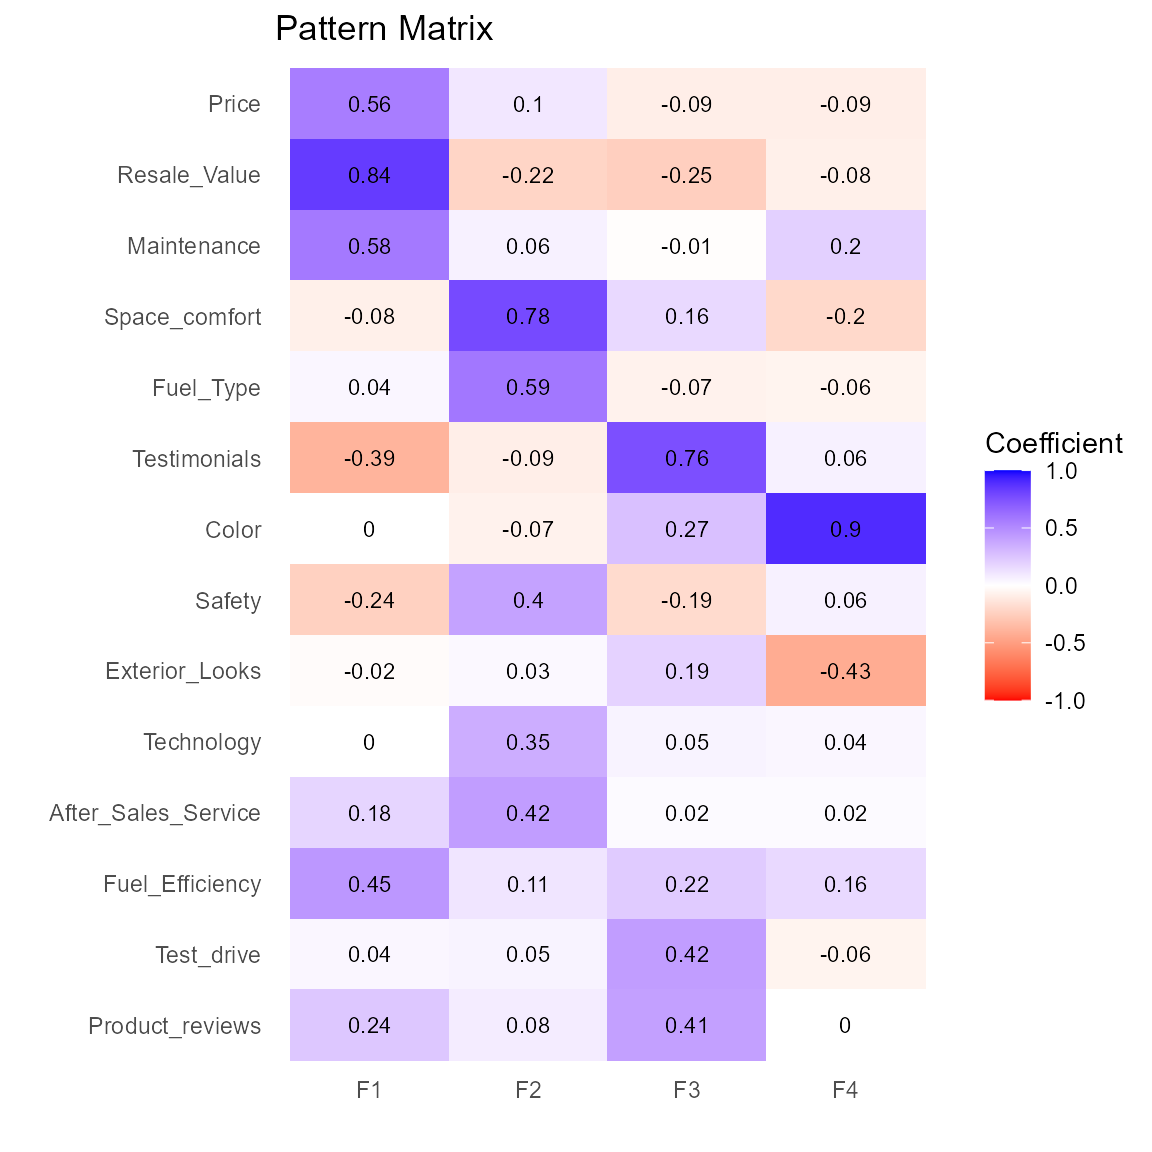
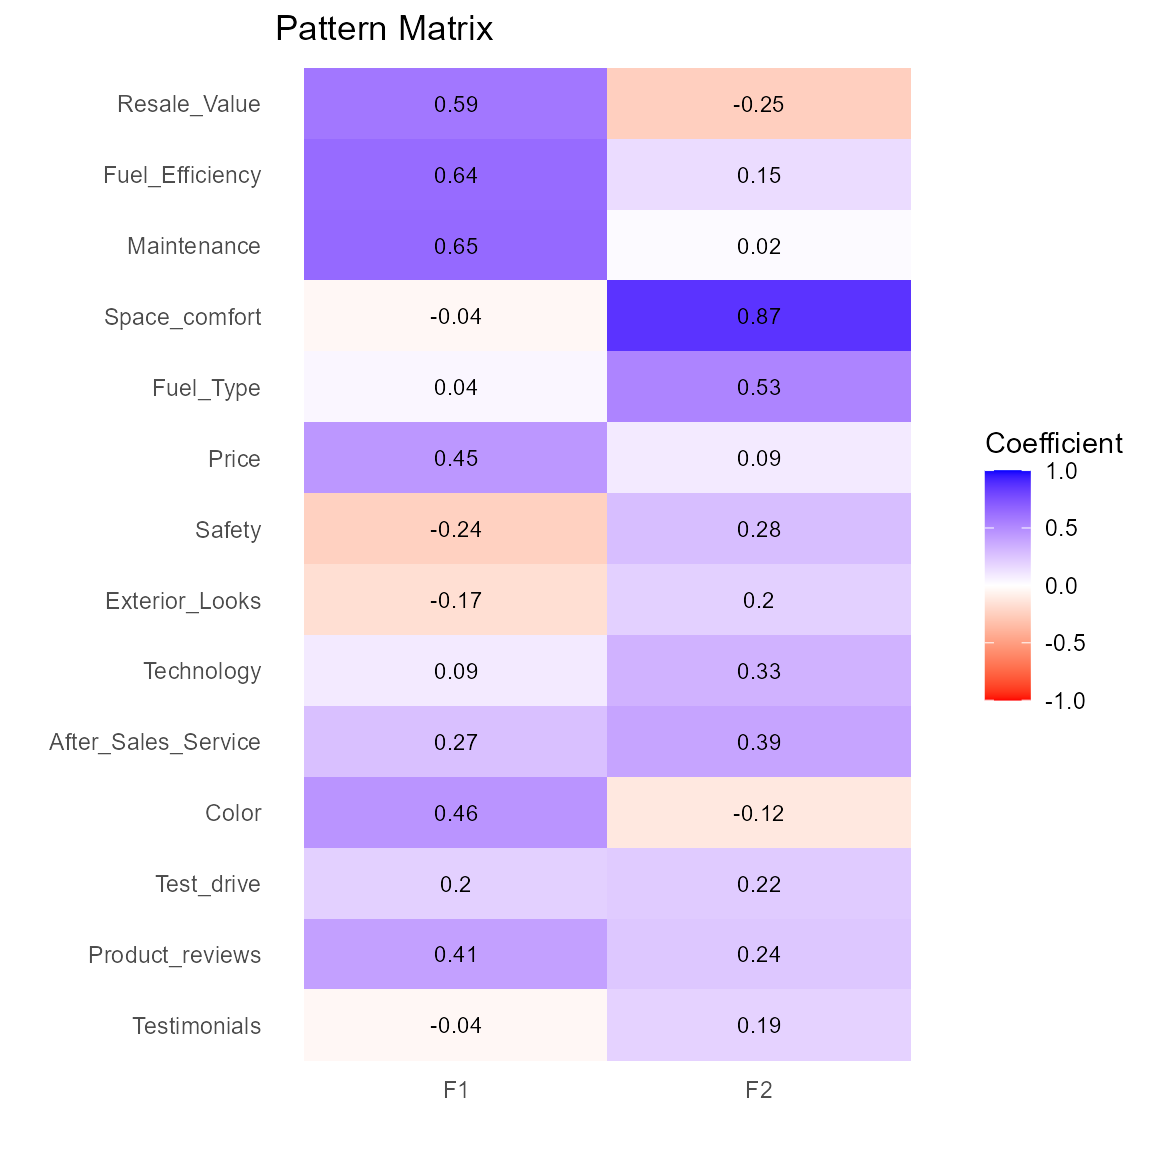
update homepage

diff --git a/docs/articles/factorAnalysis.html b/docs/articles/factorAnalysis.html
@@ -125,7 +125,7 @@
 
     
     
-<p>Based on the William Revelle’s comprehensive <a href="https://cran.r-project.org/web/packages/psych/index.html">psych</a> package, the <code>qacr</code> package provides wrapper functions for simplified input, intuitive output, and easily interpretable graphs, making these techniques more accessible to data analysts new to these forms of analysis.</p>
+<p>Based on the William Revelle’s comprehensive <a href="https://cran.r-project.org/web/packages/psych/index.html">psych</a> package, <code>qacr</code> provides wrapper functions for simplified input, intuitive output, and easily interpretable graphs, making these techniques more accessible to data analysts new to these forms of analysis.</p>
 <div id="principal-components-analysis" class="section level2">
 <h2 class="hasAnchor">
 <a href="#principal-components-analysis" class="anchor"></a>Principal Components Analysis</h2>
@@ -242,62 +242,60 @@
 <span class="co">#&gt; </span>
 <span class="co">#&gt; Note: parallel analysis suggests 4 factors.</span></code></pre></div>
 <p><img src="factorAnalysis_files/figure-html/unnamed-chunk-6-1.png" width="576"></p>
-<p>The scree plot suggests two factors. In the next step, we’ll extract four factors and rotate them using a <em>promax</em> rotation.</p>
+<p>The parallel analysis suggests a maximum 4 factors, while the bend in the scree plot strongly suggests two factors. In the next step, we’ll extract 2 factors and rotate them using a <em>promax</em> rotation.</p>
 <div class="sourceCode" id="cb8"><pre class="downlit sourceCode r">
-<code class="sourceCode R"><span class="co"># extract 4 factors</span>
-<span class="va">fit.fa</span> <span class="op">&lt;-</span> <span class="fu"><a href="../reference/FA.html">FA</a></span><span class="op">(</span><span class="va">ratings</span>, nfactor<span class="op">=</span><span class="fl">4</span>, rotate<span class="op">=</span><span class="st">"promax"</span>, fm<span class="op">=</span><span class="st">"ml"</span><span class="op">)</span>
+<code class="sourceCode R"><span class="co"># extract 2 oblique factors</span>
+<span class="va">fit.fa</span> <span class="op">&lt;-</span> <span class="fu"><a href="../reference/FA.html">FA</a></span><span class="op">(</span><span class="va">ratings</span>, nfactor<span class="op">=</span><span class="fl">2</span>, rotate<span class="op">=</span><span class="st">"promax"</span>, fm<span class="op">=</span><span class="st">"ml"</span><span class="op">)</span>
 <span class="co">#&gt; </span>
 <span class="co">#&gt; Maximum Likelihood Factor Analysis</span>
-<span class="co">#&gt; Number of Factors: 4 / Rotation: promax </span>
+<span class="co">#&gt; Number of Factors: 2 / Rotation: promax </span>
 <span class="co">#&gt; </span>
 <span class="co">#&gt; Factor Pattern</span>
-<span class="co">#&gt;                        F1    F2    F3    F4   h2</span>
-<span class="co">#&gt; Price                0.56  0.10 -0.09 -0.09 0.29</span>
-<span class="co">#&gt; Safety              -0.24  0.40 -0.19  0.06 0.21</span>
-<span class="co">#&gt; Exterior_Looks      -0.02  0.03  0.19 -0.43 0.21</span>
-<span class="co">#&gt; Space_comfort       -0.08  0.78  0.16 -0.20 0.71</span>
-<span class="co">#&gt; Technology           0.00  0.35  0.05  0.04 0.13</span>
-<span class="co">#&gt; After_Sales_Service  0.18  0.42  0.02  0.02 0.25</span>
-<span class="co">#&gt; Resale_Value         0.84 -0.22 -0.25 -0.08 0.61</span>
-<span class="co">#&gt; Fuel_Type            0.04  0.59 -0.07 -0.06 0.34</span>
-<span class="co">#&gt; Fuel_Efficiency      0.45  0.11  0.22  0.16 0.42</span>
-<span class="co">#&gt; Color                0.00 -0.07  0.27  0.90 0.90</span>
-<span class="co">#&gt; Maintenance          0.58  0.06 -0.01  0.20 0.45</span>
-<span class="co">#&gt; Test_drive           0.04  0.05  0.42 -0.06 0.21</span>
-<span class="co">#&gt; Product_reviews      0.24  0.08  0.41  0.00 0.33</span>
-<span class="co">#&gt; Testimonials        -0.39 -0.09  0.76  0.06 0.49</span>
+<span class="co">#&gt;                        F1    F2   h2</span>
+<span class="co">#&gt; Price                0.45  0.09 0.21</span>
+<span class="co">#&gt; Safety              -0.24  0.28 0.13</span>
+<span class="co">#&gt; Exterior_Looks      -0.17  0.20 0.06</span>
+<span class="co">#&gt; Space_comfort       -0.04  0.87 0.76</span>
+<span class="co">#&gt; Technology           0.09  0.33 0.12</span>
+<span class="co">#&gt; After_Sales_Service  0.27  0.39 0.24</span>
+<span class="co">#&gt; Resale_Value         0.59 -0.25 0.39</span>
+<span class="co">#&gt; Fuel_Type            0.04  0.53 0.29</span>
+<span class="co">#&gt; Fuel_Efficiency      0.64  0.15 0.44</span>
+<span class="co">#&gt; Color                0.46 -0.12 0.22</span>
+<span class="co">#&gt; Maintenance          0.65  0.02 0.42</span>
+<span class="co">#&gt; Test_drive           0.20  0.22 0.10</span>
+<span class="co">#&gt; Product_reviews      0.41  0.24 0.24</span>
+<span class="co">#&gt; Testimonials        -0.04  0.19 0.04</span>
 <span class="co">#&gt; </span>
 <span class="co">#&gt; Factor Structure</span>
-<span class="co">#&gt;                        F1    F2    F3    F4</span>
-<span class="co">#&gt; Price                0.52  0.16  0.14  0.06</span>
-<span class="co">#&gt; Safety              -0.23  0.31 -0.17  0.00</span>
-<span class="co">#&gt; Exterior_Looks      -0.05  0.06  0.17 -0.42</span>
-<span class="co">#&gt; Space_comfort        0.05  0.80  0.33 -0.19</span>
-<span class="co">#&gt; Technology           0.09  0.36  0.15  0.05</span>
-<span class="co">#&gt; After_Sales_Service  0.27  0.46  0.21  0.08</span>
-<span class="co">#&gt; Resale_Value         0.70 -0.15  0.00  0.13</span>
-<span class="co">#&gt; Fuel_Type            0.09  0.57  0.10 -0.03</span>
-<span class="co">#&gt; Fuel_Efficiency      0.58  0.24  0.42  0.28</span>
-<span class="co">#&gt; Color                0.32  0.03  0.30  0.91</span>
-<span class="co">#&gt; Maintenance          0.64  0.15  0.22  0.35</span>
-<span class="co">#&gt; Test_drive           0.19  0.17  0.45 -0.03</span>
-<span class="co">#&gt; Product_reviews      0.40  0.23  0.52  0.08</span>
-<span class="co">#&gt; Testimonials        -0.11  0.06  0.60 -0.01</span>
+<span class="co">#&gt;                        F1    F2</span>
+<span class="co">#&gt; Price                0.45  0.12</span>
+<span class="co">#&gt; Safety              -0.22  0.26</span>
+<span class="co">#&gt; Exterior_Looks      -0.16  0.18</span>
+<span class="co">#&gt; Space_comfort        0.02  0.87</span>
+<span class="co">#&gt; Technology           0.11  0.33</span>
+<span class="co">#&gt; After_Sales_Service  0.30  0.41</span>
+<span class="co">#&gt; Resale_Value         0.57 -0.22</span>
+<span class="co">#&gt; Fuel_Type            0.07  0.53</span>
+<span class="co">#&gt; Fuel_Efficiency      0.65  0.19</span>
+<span class="co">#&gt; Color                0.45 -0.09</span>
+<span class="co">#&gt; Maintenance          0.65  0.06</span>
+<span class="co">#&gt; Test_drive           0.22  0.24</span>
+<span class="co">#&gt; Product_reviews      0.43  0.27</span>
+<span class="co">#&gt; Testimonials        -0.03  0.19</span>
 <span class="co">#&gt; </span>
-<span class="co">#&gt;                         F1   F2   F3   F4</span>
-<span class="co">#&gt; SS loadings           1.76 1.51 1.13 1.14</span>
-<span class="co">#&gt; Proportion Var        0.13 0.11 0.08 0.08</span>
-<span class="co">#&gt; Cumulative Var        0.13 0.23 0.32 0.40</span>
-<span class="co">#&gt; Proportion Explained  0.32 0.27 0.20 0.21</span>
-<span class="co">#&gt; Cumulative Proportion 0.32 0.59 0.79 1.00</span>
+<span class="co">#&gt;                         F1   F2</span>
+<span class="co">#&gt; SS loadings           1.98 1.68</span>
+<span class="co">#&gt; Proportion Var        0.14 0.12</span>
+<span class="co">#&gt; Cumulative Var        0.14 0.26</span>
+<span class="co">#&gt; Proportion Explained  0.54 0.46</span>
+<span class="co">#&gt; Cumulative Proportion 0.54 1.00</span>
 <span class="co">#&gt; </span>
 <span class="co">#&gt; Factor Intercorrelations</span>
-<span class="co">#&gt;      F1   F2   F3   F4</span>
-<span class="co">#&gt; F1 1.00 0.16 0.37 0.26</span>
-<span class="co">#&gt; F2 0.16 1.00 0.27 0.03</span>
-<span class="co">#&gt; F3 0.37 0.27 1.00 0.04</span>
-<span class="co">#&gt; F4 0.26 0.03 0.04 1.00</span></code></pre></div>
-<p>The printout includes the factor pattern, the factor structure, and the factor intercorrelations. The four factors account for 40% of the variance in the original data. Factors 1 and 3 have the hightest correlation (0.37).</p>
+<span class="co">#&gt;      F1   F2</span>
+<span class="co">#&gt; F1 1.00 0.07</span>
+<span class="co">#&gt; F2 0.07 1.00</span></code></pre></div>
+<p>The printout includes the factor pattern, the factor structure, and the factor intercorrelations. The four factors account for 26% of the variance in the original data. Factors 1 and 2 have a low correlation (0.07), suggesting that an orthogonal (e.g., varimax) rotation may give a simpler solution.</p>
 <p>Next, we’ll plot the pattern matrix as both a table and a bar chart.</p>
 <div class="sourceCode" id="cb9"><pre class="downlit sourceCode r">
 <code class="sourceCode R"><span class="co"># plot factor pattern as table</span>
@@ -327,13 +325,13 @@
 <span class="co">#&gt; 4            5         5               4     4           4          2</span>
 <span class="co">#&gt; 5            5         3               4     5           5          5</span>
 <span class="co">#&gt; 6            3         4               3     2           3          2</span>
-<span class="co">#&gt;   Product_reviews Testimonials         F1         F2         F3         F4</span>
-<span class="co">#&gt; 1               4            3  0.2506910 -0.4699041 -0.7872106 -1.6945115</span>
-<span class="co">#&gt; 2               2            2 -1.5335845 -0.9639319 -2.4591528  0.8789180</span>
-<span class="co">#&gt; 3               4            3  1.1462512  0.2886700 -0.1155376  0.4665338</span>
-<span class="co">#&gt; 4               5            3  0.5241452 -0.8581296 -0.6791612  0.4143127</span>
-<span class="co">#&gt; 5               5            2  1.3108167  0.1322874 -0.1696281  1.3488528</span>
-<span class="co">#&gt; 6               2            3 -1.2159854 -1.1217324 -1.7582189 -1.4766228</span></code></pre></div>
+<span class="co">#&gt;   Product_reviews Testimonials         F1          F2</span>
+<span class="co">#&gt; 1               4            3 -0.2191629 -0.27112360</span>
+<span class="co">#&gt; 2               2            2 -1.4450747 -1.44074857</span>
+<span class="co">#&gt; 3               4            3  1.2040675  0.03516678</span>
+<span class="co">#&gt; 4               5            3  0.3792889 -1.12791694</span>
+<span class="co">#&gt; 5               5            2  1.1548109 -0.18276132</span>
+<span class="co">#&gt; 6               2            3 -1.4025048 -1.14472586</span></code></pre></div>
 </div>
   </div>
 

diff --git a/docs/index.html b/docs/index.html
@@ -122,51 +122,24 @@
 <a href="#qacr" class="anchor"></a>qacr</h1></div>
 <!-- badges: start -->
 <!-- badges: end -->
-<p>The goal of <strong>qacr</strong> is to provide convenient statistical results for data science students and practitioners.</p>
-<p>Why <strong>qacr</strong>? This package is created and maintained by advanced undergradutes in the <a href="http://qac.wesleyan.edu">Quantitative Analysis Center</a> (QAC) at Wesleyan University. It just seemed appropriate.</p>
-<div id="installation" class="section level2">
-<h2 class="hasAnchor">
-<a href="#installation" class="anchor"></a>Installation</h2>
+<p><strong>R</strong> is a wonderful language and platform for data science. Unfortunately, many simple tasks in data preparation, data exploration, machine learning, and data visualization can be more difficult than necessary.</p>
+<p>The goal of the <strong>qacr</strong> package is to provide <strong>convenient statistical functions</strong> for the common data science task we perform every day. Additionally, there are over <strong>two dozen data sets</strong> that can be used for teaching and self-study.</p>
+<p>Why <strong>qacr</strong>? This package is created and maintained by faculty and advanced undergradutes in the <a href="http://qac.wesleyan.edu">Quantitative Analysis Center</a> (QAC) at Wesleyan University. It just seemed appropriate.</p>
+<div id="installation" class="section level3">
+<h3 class="hasAnchor">
+<a href="#installation" class="anchor"></a>Installation</h3>
 <p>You can install this package with the following code:</p>
 <div class="sourceCode" id="cb1"><pre class="downlit sourceCode r">
-<code class="sourceCode R"><span class="kw">if</span><span class="op">(</span><span class="op">!</span><span class="kw"><a href="https://rdrr.io/r/base/library.html">require</a></span><span class="op">(</span><span class="va"><a href="https://devtools.r-lib.org/">devtools</a></span><span class="op">)</span><span class="op">)</span><span class="op">{</span>
-   <span class="fu"><a href="https://rdrr.io/r/utils/install.packages.html">install.packages</a></span><span class="op">(</span><span class="st">"devtools"</span><span class="op">)</span>
+<code class="sourceCode R"><span class="kw">if</span><span class="op">(</span><span class="op">!</span><span class="kw"><a href="https://rdrr.io/r/base/library.html">require</a></span><span class="op">(</span><span class="va"><a href="https://remotes.r-lib.org">remotes</a></span><span class="op">)</span><span class="op">)</span><span class="op">{</span>
+   <span class="fu"><a href="https://rdrr.io/r/utils/install.packages.html">install.packages</a></span><span class="op">(</span><span class="st">"remotes"</span><span class="op">)</span>
 <span class="op">}</span>
-<span class="fu">devtools</span><span class="fu">::</span><span class="fu"><a href="https://devtools.r-lib.org//reference/remote-reexports.html">install_github</a></span><span class="op">(</span><span class="st">"rkabacoff/qacr"</span><span class="op">)</span></code></pre></div>
+<span class="fu">remotes</span><span class="fu">::</span><span class="fu"><a href="https://remotes.r-lib.org/reference/install_github.html">install_github</a></span><span class="op">(</span><span class="st">"rkabacoff/qacr"</span><span class="op">)</span></code></pre></div>
 </div>
-<div id="examples" class="section level2">
-<h2 class="hasAnchor">
-<a href="#examples" class="anchor"></a>Examples</h2>
-<p>Here are some basic examples demonstrating a few of these functions. Each function has options allowing for customized output.</p>
-<div class="sourceCode" id="cb2"><pre class="downlit sourceCode r">
-<code class="sourceCode R"><span class="kw"><a href="https://rdrr.io/r/base/library.html">library</a></span><span class="op">(</span><span class="va"><a href="https://github.com/rkabacoff/qacr">qacr</a></span><span class="op">)</span>
-
-<span class="co"># summarize a data frame</span>
-<span class="fu"><a href="reference/contents.html">contents</a></span><span class="op">(</span><span class="va">cars74</span><span class="op">)</span>
-
-<span class="co"># obtain descriptive statistics on a quantitative variable </span>
-<span class="co"># for each level of a grouping variable</span>
-<span class="fu"><a href="reference/qstats.html">qstats</a></span><span class="op">(</span><span class="va">cars74</span>, <span class="va">mpg</span>, <span class="va">cyl</span><span class="op">)</span>
-
-<span class="co"># tabulate a categorical variable</span>
-<span class="fu"><a href="reference/tab.html">tab</a></span><span class="op">(</span><span class="va">cars74</span>, <span class="va">cyl</span><span class="op">)</span>
-
-<span class="co"># cross-tabulate two categorical variables</span>
-<span class="fu"><a href="reference/crosstab.html">crosstab</a></span><span class="op">(</span><span class="va">cars74</span>, <span class="va">cyl</span>, <span class="va">gear</span><span class="op">)</span>
-
-<span class="co"># plot the distributions of quantitative and categorical variables</span>
-<span class="fu"><a href="reference/histograms.html">histograms</a></span><span class="op">(</span><span class="va">cars74</span><span class="op">)</span>
-<span class="fu"><a href="reference/densities.html">densities</a></span><span class="op">(</span><span class="va">cars74</span><span class="op">)</span>
-<span class="fu"><a href="reference/barcharts.html">barcharts</a></span><span class="op">(</span><span class="va">cars74</span><span class="op">)</span>
-
-<span class="co"># scatter plot and regression line</span>
-<span class="fu"><a href="reference/scatter.html">scatter</a></span><span class="op">(</span><span class="va">cars74</span>, <span class="va">hp</span>, <span class="va">mpg</span><span class="op">)</span>
-
-<span class="co"># plot a correlation matrix among quantitative variables</span>
-<span class="fu">corplot</span><span class="op">(</span><span class="va">cars74</span><span class="op">)</span>
-
-<span class="co"># visualize a data frame</span>
-<span class="fu">dfPlot</span><span class="op">(</span><span class="va">coffee</span><span class="op">)</span></code></pre></div>
+<div id="using-the-package" class="section level3">
+<h3 class="hasAnchor">
+<a href="#using-the-package" class="anchor"></a>Using the package</h3>
+<p>The easiest way to get started, is appropriately enough, reading the <a href="articles/qacr.html"><strong>Getting Started</strong></a> guide. Next, take a look at the <a href="reference/index.html">Documentation</a>. There are also <em>vignettes</em> on specific topics.</p>
+<p><strong>Suggestions are always welcome!</strong></p>
 </div>
 </div>
 

diff --git a/README.md b/README.md
@@ -5,53 +5,27 @@
 <!-- badges: start -->
 <!-- badges: end -->
 
-The goal of **qacr** is to provide convenient statistical results for data science students and practitioners.
+**R** is a wonderful language and platform for data science. Unfortunately, many simple tasks in data preparation, data exploration, machine learning, and data visualization can be more difficult than necessary.  
 
-Why **qacr**? This package is created and maintained by advanced undergradutes in the [Quantitative Analysis Center](http://qac.wesleyan.edu) (QAC) at Wesleyan University. It just seemed appropriate.
+The goal of the **qacr** package is to provide **convenient statistical functions** for the common data science task we perform every day. Additionally, there are over **two dozen data sets** that can be used for
+teaching and self-study.
 
-## Installation
+Why **qacr**? This package is created and maintained by faculty and advanced undergradutes in the [Quantitative Analysis Center](http://qac.wesleyan.edu) (QAC) at Wesleyan University. It just seemed appropriate.
+
+### Installation
 
 You can install this package with the following code:
 
 ``` r
-if(!require(devtools)){
-   install.packages("devtools")
+if(!require(remotes)){
+   install.packages("remotes")
 }
-devtools::install_github("rkabacoff/qacr")
+remotes::install_github("rkabacoff/qacr")
 ```
 
-## Examples
+### Using the package
 
-Here are some basic examples demonstrating a few of these functions. Each function has options allowing for customized output.
+The easiest way to get started, is appropriately enough, reading the [**Getting Started**](articles/qacr.html) guide. Next, take a look at the
+[Documentation](reference/index.html). There are also *vignettes* on specific topics.
 
-``` r
-library(qacr)
-
-# summarize a data frame
-contents(cars74)
-
-# obtain descriptive statistics on a quantitative variable 
-# for each level of a grouping variable
-qstats(cars74, mpg, cyl)
-
-# tabulate a categorical variable
-tab(cars74, cyl)
-
-# cross-tabulate two categorical variables
-crosstab(cars74, cyl, gear)
-
-# plot the distributions of quantitative and categorical variables
-histograms(cars74)
-densities(cars74)
-barcharts(cars74)
-
-# scatter plot and regression line
-scatter(cars74, hp, mpg)
-
-# plot a correlation matrix among quantitative variables
-corplot(cars74)
-
-# visualize a data frame
-dfPlot(coffee)
-```
-
+**Suggestions are always welcome!**
